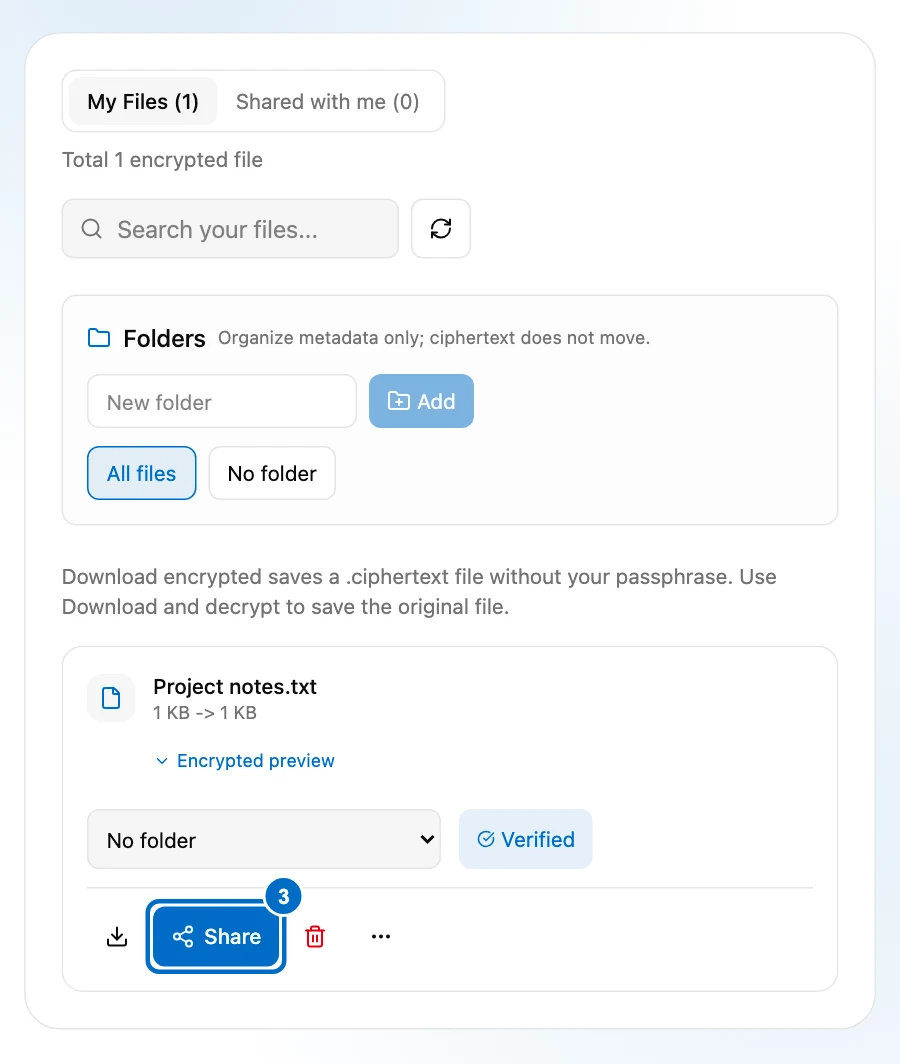
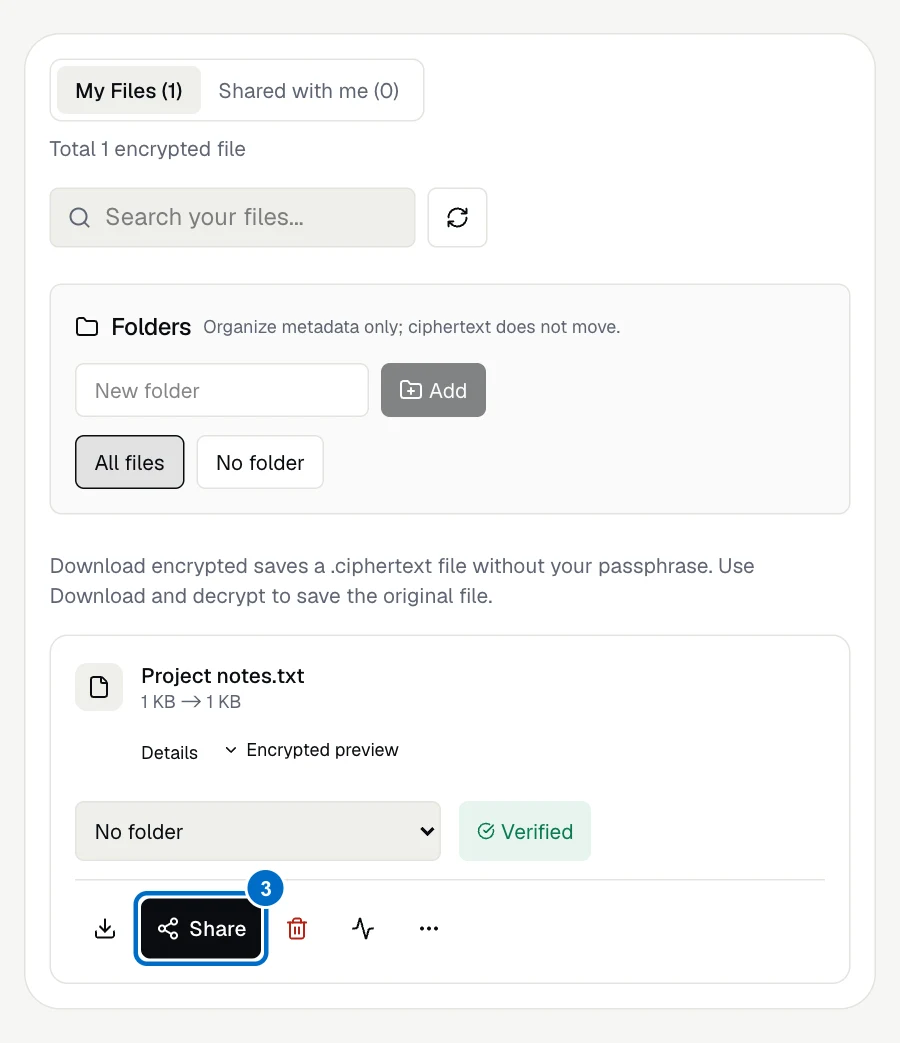
Retake the picture-guide screenshots in English and Chinese for the new interface
Guide images exist as <name>.webp and <name>-zh.webp and the home guide shows the set for the
chosen language. The capture script targets test ids instead of old class names, takes both
languages from one page state, and the guide copy no longer calls the Share button blue.
Also: a stale tab no longer dead-ends on a lazy page after a deploy, the algorithm note and the
Total-files line translate properly, and the Status chip no longer wraps.

diff --git a/frontend/src/components/securfile/file-management.vue b/frontend/src/components/securfile/file-management.vue
@@ -723,7 +723,7 @@ const statusConfig: Record<EncryptedFile['status'], StatusConfig> = {
     <div class="page-container">
       <PageHeader title="Manage Encrypted Files" subtitle="View, download, share, and verify all your encrypted files" />
 
-      <div class="bg-card border border-border rounded-3xl p-4 sm:p-6">
+      <div class="bg-card border border-border rounded-3xl p-4 sm:p-6" data-testid="files-card">
         <div class="flex flex-col md:flex-row md:items-center justify-between gap-4 mb-6">
           <div>
             <div class="inline-flex rounded-lg border border-border p-1 mb-2">
@@ -750,7 +750,7 @@ const statusConfig: Record<EncryptedFile['status'], StatusConfig> = {
             </div>
             <p class="text-muted-foreground text-sm">
               <template v-if="searchQuery.trim()">{{ total }} {{ total === 1 ? 'match' : 'matches' }} for "{{ searchQuery.trim() }}"</template>
-              <template v-else>Total {{ total }} encrypted {{ total === 1 ? 'file' : 'files' }}</template><span v-if="total > files.length">, showing {{ firstOnPage }}-{{ lastOnPage }}</span>
+              <template v-else-if="total === 1">Total 1 encrypted file</template><template v-else>Total {{ total }} encrypted files</template><span v-if="total > files.length">, showing {{ firstOnPage }}-{{ lastOnPage }}</span>
             </p>
           </div>
           <div class="flex items-center gap-2">
@@ -929,7 +929,7 @@ const statusConfig: Record<EncryptedFile['status'], StatusConfig> = {
                   </select>
                 </td>
                 <td class="md:table-cell md:px-2 md:py-3 md:text-center">
-                  <button class="inline-flex min-h-10 items-center gap-1 rounded-md px-3 py-1 md:min-h-0 md:px-2" :class="statusConfig[file.status].className" @click="handleIntegrityCheck(file.id)">
+                  <button class="inline-flex min-h-10 items-center gap-1 whitespace-nowrap rounded-md px-3 py-1 md:min-h-0 md:px-2" :class="statusConfig[file.status].className" @click="handleIntegrityCheck(file.id)">
                     <component :is="statusConfig[file.status].icon" class="h-3 w-3" />
                     {{ statusConfig[file.status].label }}
                   </button>

diff --git a/frontend/src/components/securfile/workflow-section.vue b/frontend/src/components/securfile/workflow-section.vue
@@ -1,4 +1,5 @@
 <script setup lang="ts">
+import { useI18n } from 'vue-i18n'
 import {
   ArrowLeft,
   ArrowRight,
@@ -44,6 +45,10 @@ function stopTimers() {
   progress.value = 0
 }
 
+const { locale } = useI18n()
+/** The screenshots exist in English and Chinese (`<name>-zh.webp`): show the set for the chosen language. */
+const shot = (name: string) => `/walkthrough/${name}${locale.value === 'zh-CN' ? '-zh' : ''}.webp`
+
 function warmSlide(index: number) {
   const slide = slides[index]
   if (!slide) return
@@ -51,7 +56,7 @@ function warmSlide(index: number) {
     if (warmedImages.has(name)) continue
     warmedImages.add(name)
     const image = new Image()
-    image.src = `/walkthrough/${name}.webp`
+    image.src = shot(name)
   }
 }
 
@@ -244,9 +249,9 @@ onBeforeUnmount(() => {
               >
                 <Transition name="guide-fade" mode="out-in">
                   <picture :key="active.id">
-                    <source media="(max-width: 767px)" :srcset="`/walkthrough/${active.mobile}.webp`" />
+                    <source media="(max-width: 767px)" :srcset="shot(active.mobile)" />
                     <img
-                      :src="`/walkthrough/${active.id}.webp`"
+                      :src="shot(active.id)"
                       :alt="active.alt"
                       width="1410"
                       height="1000"
@@ -347,7 +352,7 @@ onBeforeUnmount(() => {
           </button>
         </div>
         <div class="guide-lightbox-image">
-          <img :src="`/walkthrough/${active.id}.webp`" :alt="active.alt" />
+          <img :src="shot(active.id)" :alt="active.alt" />
         </div>
         <p class="p-4 text-sm leading-relaxed text-foreground">{{ active.action }}</p>
       </dialog>

diff --git a/frontend/src/components/securfile/file-encryption.vue b/frontend/src/components/securfile/file-encryption.vue
@@ -233,7 +233,7 @@ const goToFiles = () => {
         title="Encrypt Your Files"
         subtitle="Files are encrypted in your browser with the algorithm you choose below (AES-256-GCM by default). Only ciphertext is uploaded; the server never receives your readable file or its key."
       />
-      <div class="rounded-xl bg-card border border-border p-6">
+      <div class="rounded-xl bg-card border border-border p-6" data-testid="encrypt-card">
         <!-- minmax(0, 1fr): a grid track otherwise never gets narrower than its widest unbreakable
              content, and the cipher dropdown's longest option pushed a phone sideways. -->
         <div class="grid grid-cols-[minmax(0,1fr)] lg:grid-cols-[minmax(0,1fr)_minmax(0,1fr)] gap-8">
@@ -322,7 +322,9 @@ const goToFiles = () => {
                 </div>
               </div>
               <p class="text-sm text-muted-foreground">
-                {{ ALGORITHM_NOTES[algorithm] }} A fresh key is generated per file and wrapped, with
+                <!-- The note is its own element so it is translated on its own: joined to the sentence
+                     below it was one text node that matched nothing in the dictionary. -->
+                <span>{{ ALGORITHM_NOTES[algorithm] }}</span> A fresh key is generated per file and wrapped, with
                 RSA-OAEP, to your public key and to the recovery key. (SHA-256 appears in that name
                 because OAEP uses it inside its padding; it is not a checksum of your file.) Neither
                 the file key nor your readable file leaves this browser unprotected.

diff --git a/frontend/src/router/index.ts b/frontend/src/router/index.ts
@@ -15,4 +15,24 @@ const router = createRouter({
 
 router.beforeEach(authGuard)
 
+/**
+ * A deploy replaces the hashed files under /assets. A tab opened before it still holds the old
+ * index, so the first lazy page it asks for (How it works, the benchmark) points at a file that is
+ * gone: the import fails and the click appears to do nothing. Loading the target address afresh
+ * fetches the new index and the right files. Once per address, so a real outage cannot loop.
+ */
+const CHUNK_ERROR = /Failed to fetch dynamically imported module|Importing a module script failed|error loading dynamically imported module|Unable to preload CSS/i
+router.onError((error, to) => {
+  const message = error instanceof Error ? error.message : String(error)
+  if (!CHUNK_ERROR.test(message)) return
+  const key = `chunk-reload:${to.fullPath}`
+  try {
+    if (sessionStorage.getItem(key)) return
+    sessionStorage.setItem(key, '1')
+  } catch {
+    // Without storage the guard cannot remember; reloading once is still the right move.
+  }
+  window.location.assign(to.fullPath)
+})
+
 export default router

diff --git a/frontend/src/data/workflow-guide.ts b/frontend/src/data/workflow-guide.ts
@@ -27,9 +27,9 @@ export const workflowSlides = [
     short: 'Find Share',
     page: 'My Files',
     title: 'Find your file. Click its Share button.',
-    action: 'In My Files, find the file you just uploaded. Click the blue Share button under Actions.',
+    action: 'In My Files, find the file you just uploaded. Click the black Share button under Actions.',
     result: 'The Share this file window opens.',
-    tip: 'Share is the blue button next to the red Delete icon. You can share files that you own.',
+    tip: 'Share is the black button next to the red Delete icon; the icon after it opens this file’s access history. You can share files that you own.',
     alt: 'The My Files table with Project notes.txt and its Share icon outlined and marked 3.',
     mobile: '03-file-mobile',
   },

diff --git a/frontend/src/data/assistant/intents.ts b/frontend/src/data/assistant/intents.ts
@@ -141,7 +141,7 @@ export const ASSISTANT_INTENTS: AssistantIntent[] = [
       'their own account first.',
     steps: [
       'Open My Files and find a file you own.',
-      'Press its blue Share button, next to Delete.',
+      'Press its black Share button, next to Delete.',
       'If asked, unlock with your encryption passphrase.',
       'Enter their exact username or email address and press Share.',
       'Check the name and key fingerprint shown, then press Confirm and share.',
